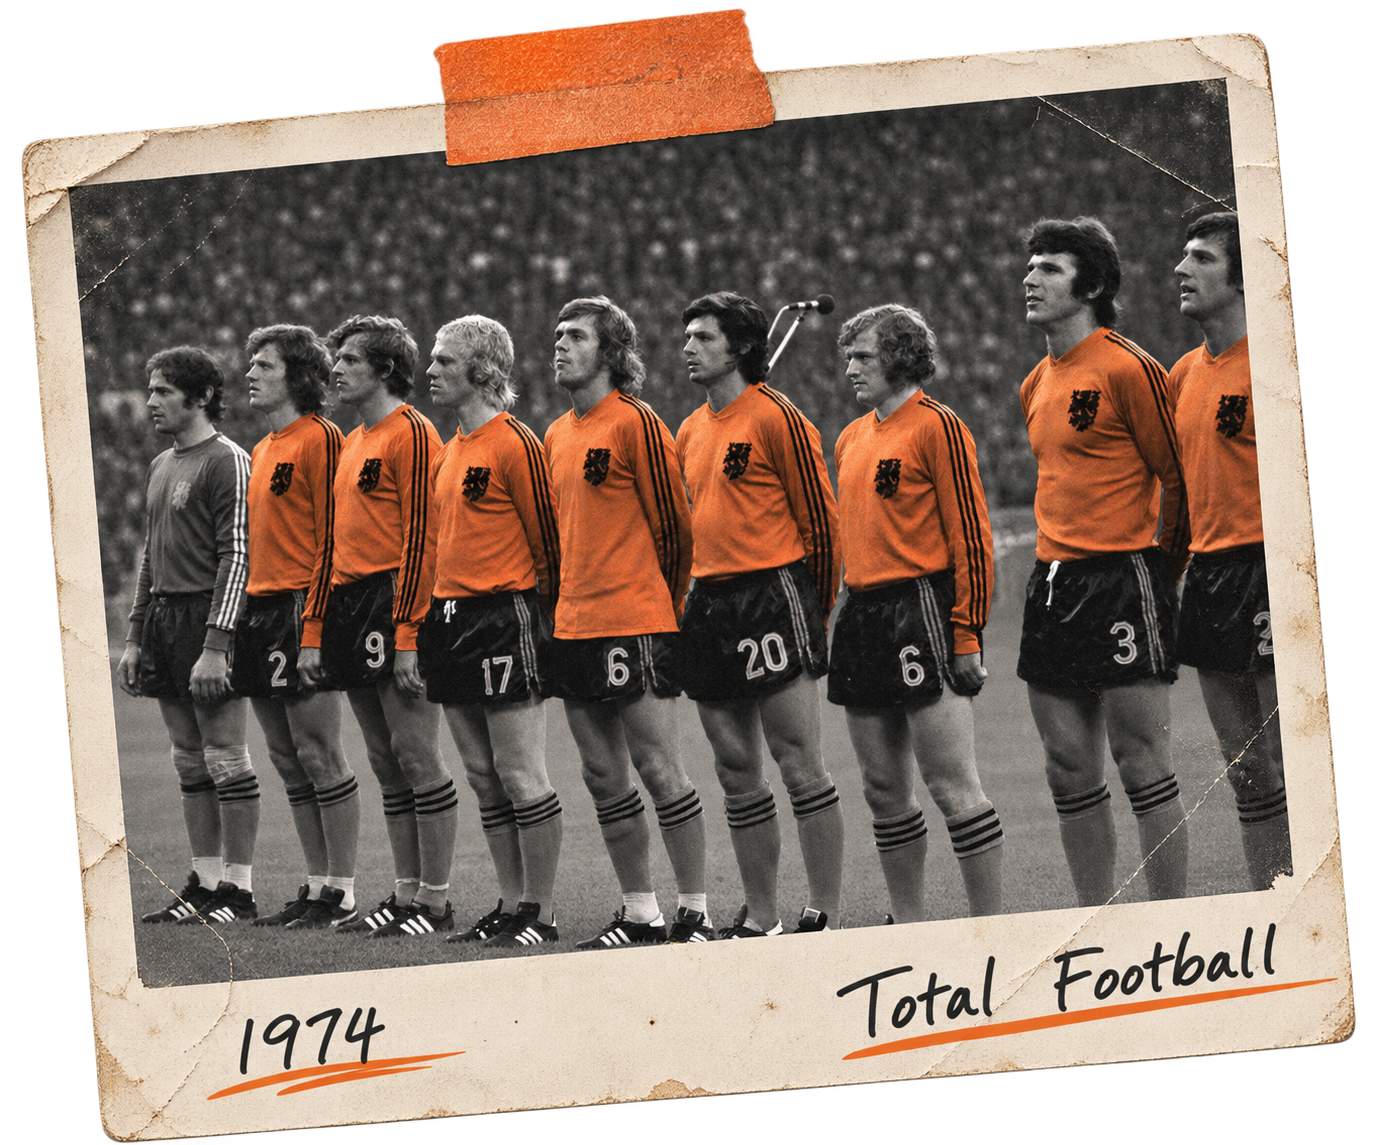
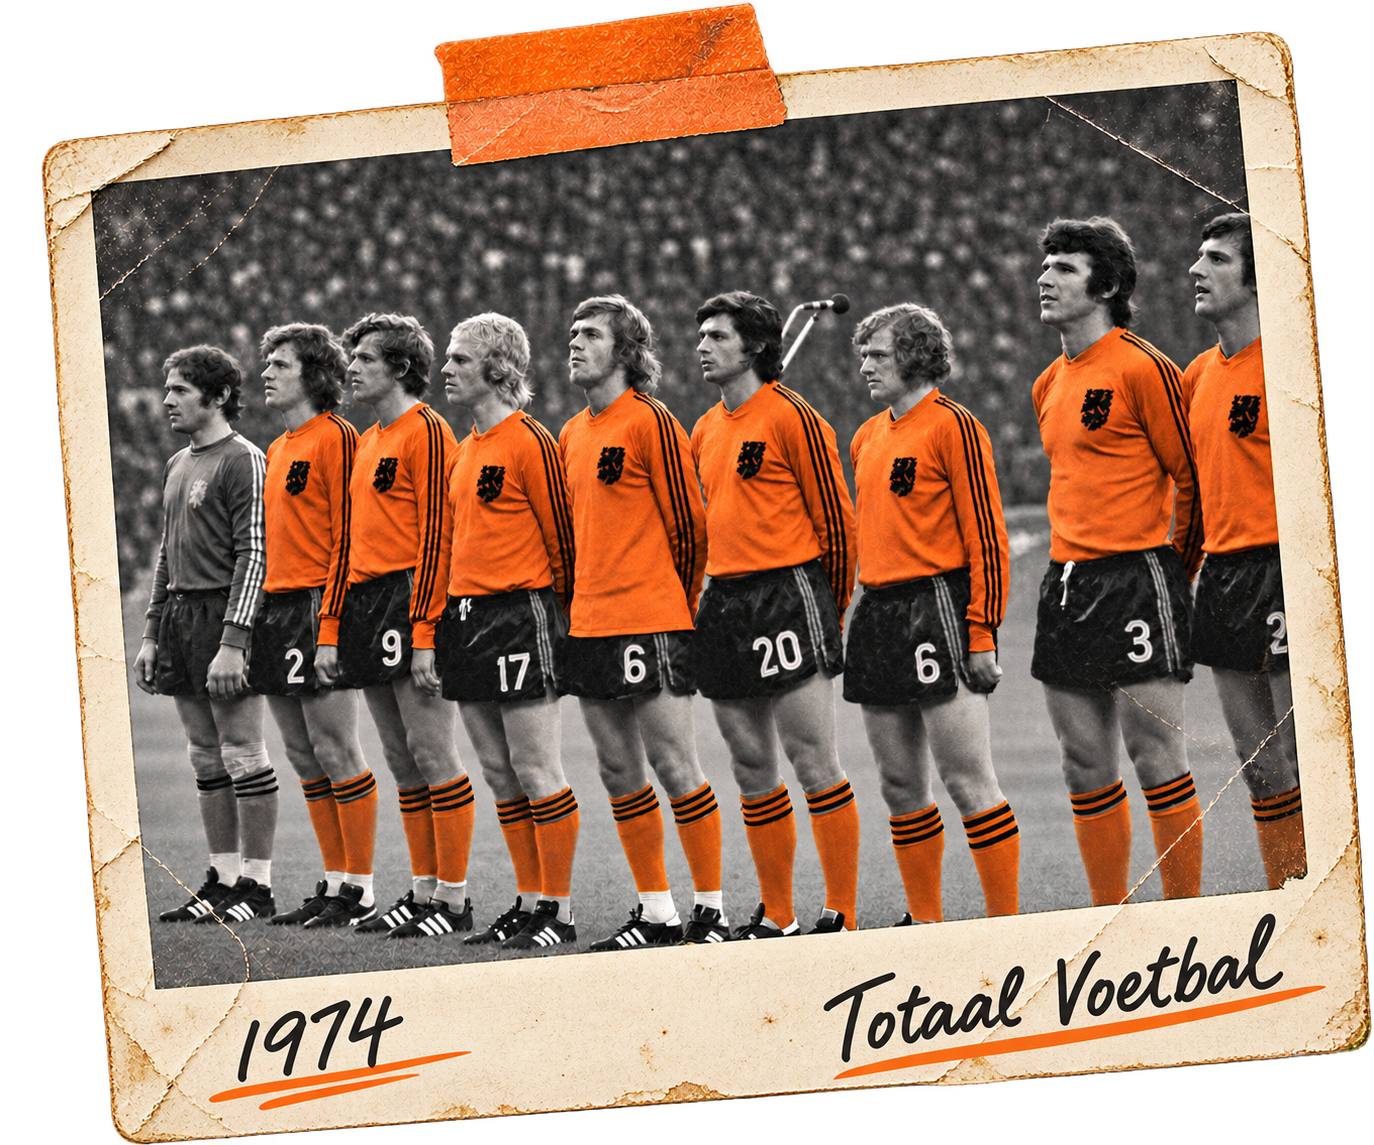
Update 1974 team print
Claude-Session: https://claude.ai/code/session_01SJFgZ3ntddE1JVA3buEB2q

diff --git a/talk/index.html b/talk/index.html
@@ -36,7 +36,7 @@
         </div>
       </div>
     </div>
-    <img class="place figure" data-obj="photo1974" src="img/team1974.png" alt="Netherlands line-up, 1974" style="left: 480px; top: 260px; width: 1120px; transform: rotate(-4deg);">
+    <img class="place figure" data-obj="photo1974" src="img/team1974.png?v=2" alt="Netherlands line-up, 1974" style="left: 480px; top: 260px; width: 1120px; transform: rotate(-4deg);">
 
     <img class="place figure" data-obj="xp-print" src="img/xp-print.png" alt="Windows XP, 2001" style="left: 160px; top: 2060px; width: 980px; transform: rotate(3deg);">
     <img class="place figure" data-obj="pascal-print" src="img/pascal-print.png" alt="Turbo Pascal, 1990s" style="left: 380px; top: 2780px; width: 1000px; transform: rotate(-3deg);">
